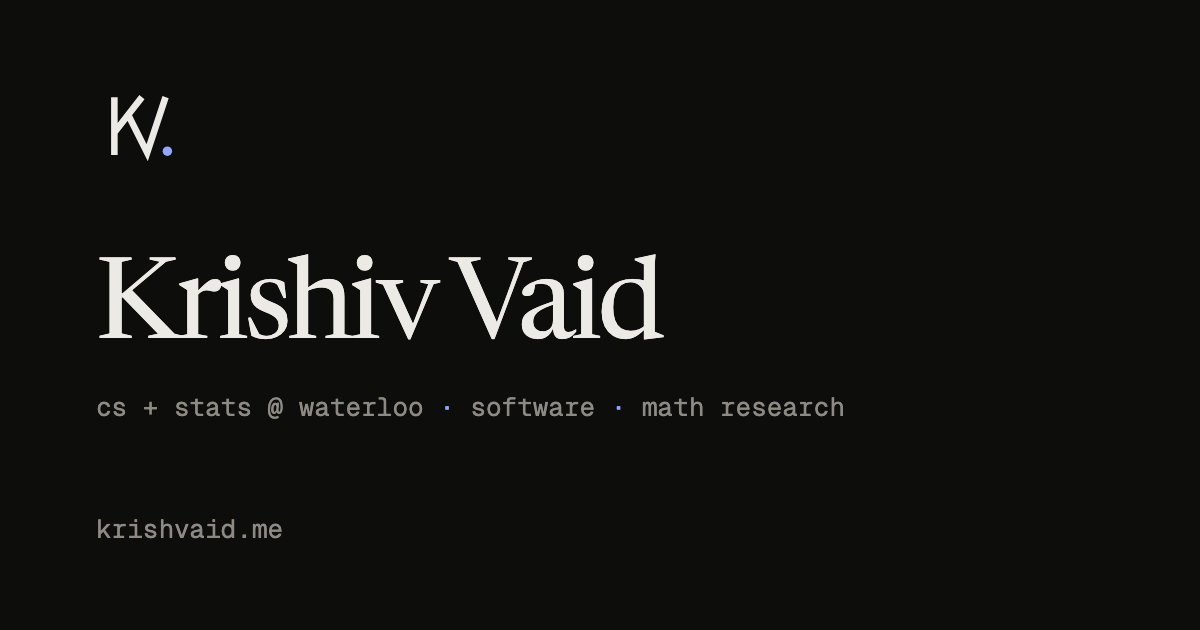
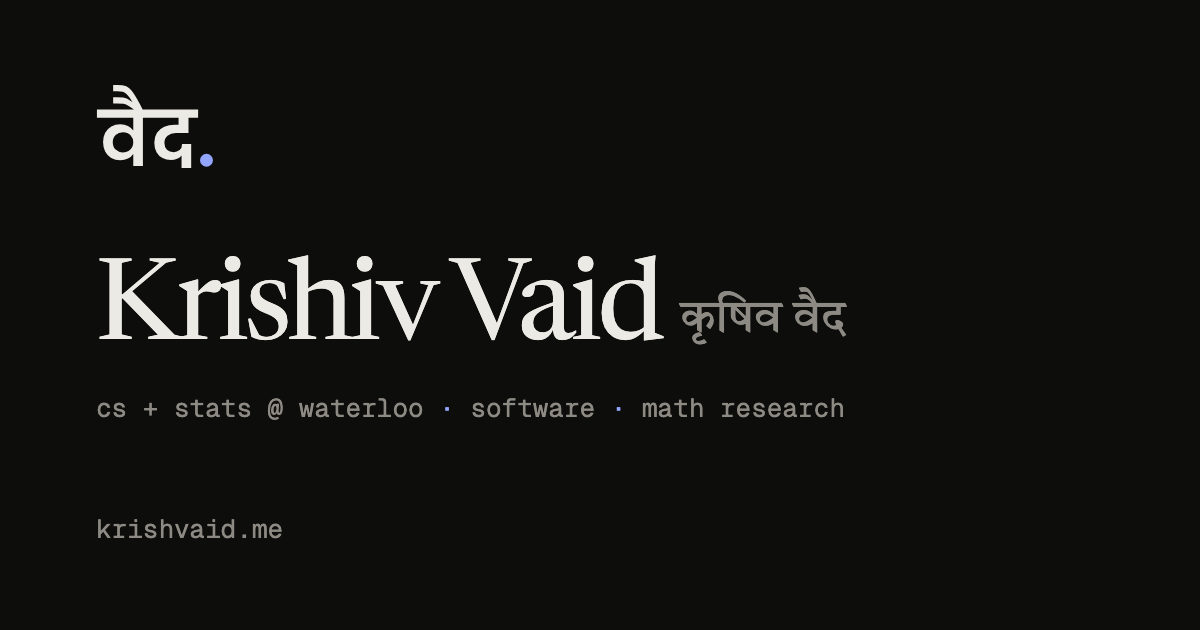
वैद mark, Devanagari name, interests section, faster counter
- New वैद. mark (Poppins outlines + accent dot) for favicon, touch icon, header, footer, 404 and social preview
- कृषिव वैद beside the name, in a subset Tiro Devanagari Hindi webfont
- New interests section: chess (2500 peak, playing since age 3), speedcubing (5.70s), other interests
- Orangutany and STEMinate logos; removed the expected graduation date
- Counter moves to a Cloudflare Worker + Durable Object; the request starts in <head> and the roll is faster

diff --git a/index.html b/index.html
@@ -27,9 +27,24 @@
       document.documentElement.dataset.theme = t;
     })();
   </script>
+  <!-- Count the visit before CSS and fonts load; main.js renders the result. -->
+  <script>
+    window.__visit = (function () {
+      var url = 'COUNTER_URL';
+      function go(retry) {
+        return fetch(url, { method: 'POST', credentials: 'omit', cache: 'no-store' })
+          .then(function (r) { if (!r.ok) throw new Error(r.status); return r.json(); })
+          .then(function (d) { return d.count; })
+          .catch(function (e) { if (retry) throw e; return new Promise(function (ok) { setTimeout(ok, 300); }).then(function () { return go(true); }); });
+      }
+      if (document.prerendering) return new Promise(function (ok) { document.addEventListener('prerenderingchange', function () { ok(go()); }, { once: true }); });
+      return go();
+    })();
+  </script>
   <link rel="preconnect" href="https://fonts.googleapis.com">
   <link rel="preconnect" href="https://fonts.gstatic.com" crossorigin>
   <link rel="stylesheet" href="https://fonts.googleapis.com/css2?family=Geist:wght@400;500;600&family=Geist+Mono:wght@400;500&family=Newsreader:ital,opsz,wght@0,6..72,400;0,6..72,500;1,6..72,400&display=swap">
+  <link rel="stylesheet" href="https://fonts.googleapis.com/css2?family=Tiro+Devanagari+Hindi&text=%E0%A4%95%E0%A5%83%E0%A4%B7%E0%A4%BF%E0%A4%B5%20%E0%A4%B5%E0%A5%88%E0%A4%A6&display=swap">
   <link rel="stylesheet" href="/css/styles.css">
   <script src="/js/main.js" defer></script>
 </head>
@@ -39,10 +54,7 @@
   <header class="top">
     <div class="wrap top-inner">
       <a class="brand" href="/" aria-label="Krishiv Vaid, home">
-        <svg class="mark" viewBox="0 0 32 32" aria-hidden="true">
-          <path class="mark-stroke" d="M7 5v22M7 18.5 17.5 5M12.2 11.6 19.5 26.2 26.5 5" pathLength="1"/>
-          <circle class="mark-dot" cx="27.2" cy="25.6" r="1.8"/>
-        </svg>
+        <svg class="mark mark-top" viewBox="-33 -1072 1542 1111" aria-hidden="true"><path class="mark-glyph" d="M690 -740V-632H580V0H454V-158Q428 -119 384.5 -97.0Q341 -75 285 -75Q217 -75 165.5 -105.5Q114 -136 86.5 -190.0Q59 -244 59 -314Q59 -381 87.0 -434.0Q115 -487 166.5 -516.5Q218 -546 285 -546Q342 -546 385.0 -524.0Q428 -502 454 -463V-632H-21V-740ZM454 -309V-310Q454 -364 418.5 -403.0Q383 -442 319 -442Q261 -442 223.5 -406.0Q186 -370 186 -311Q186 -251 223.5 -214.5Q261 -178 319 -178Q362 -178 392.5 -197.0Q423 -216 438.5 -246.0Q454 -276 454 -309ZM578 -737H468Q405 -780 378.0 -795.0Q351 -810 325.0 -814.0Q299 -818 241 -818H191V-899H238Q294 -899 321.0 -895.5Q348 -892 375.5 -878.5Q403 -865 444 -833Q406 -901 375.0 -932.0Q344 -963 316.5 -970.5Q289 -978 243 -978H191V-1060H241Q321 -1060 362.5 -1042.5Q404 -1025 450.5 -960.0Q497 -895 578 -737ZM861 -301Q861 -246 894.0 -213.5Q927 -181 982 -181Q1027 -181 1059.5 -209.0Q1092 -237 1092 -289H1211V27H1085V-138Q1063 -109 1027.0 -93.5Q991 -78 945 -78Q885 -78 836.0 -104.0Q787 -130 758.0 -181.0Q729 -232 729 -305Q729 -380 763.5 -433.5Q798 -487 858.5 -514.0Q919 -541 996 -541H1046V-632H649V-740H1302L1301 -632H1176V-430H1009Q943 -430 902.0 -396.0Q861 -362 861 -301Z"/><circle class="mark-dot" cx="1411" cy="-75" r="84"/></svg>
         <span class="brand-name">krishiv vaid</span>
       </a>
       <nav class="nav" aria-label="Sections">
@@ -50,6 +62,7 @@
         <a href="#research">research</a>
         <a href="#projects">projects</a>
         <a href="#about">about</a>
+        <a class="wide-only" href="#interests">interests</a>
       </nav>
       <button class="theme" type="button" id="theme-toggle" aria-label="Switch theme">
         <svg viewBox="0 0 24 24" aria-hidden="true">
@@ -64,7 +77,7 @@
   <main id="main" class="wrap">
     <section class="hero" aria-labelledby="hero-name">
       <p class="eyebrow mono"><span class="pulse" aria-hidden="true"></span>toronto, on <span class="sep">·</span> <time id="local-time">--:--</time></p>
-      <h1 id="hero-name">Krishiv Vaid</h1>
+      <h1 id="hero-name">Krishiv Vaid <span class="dev" lang="hi">कृषिव वैद</span></h1>
       <p class="lede">
         I study computer science &amp; statistics at
         <a class="org" href="https://uwaterloo.ca/"><img src="/public/logos/uwaterloo.ca.png" alt="" width="16" height="16">the University of Waterloo</a>.
@@ -106,7 +119,7 @@
         </li>
         <li class="entry">
           <div class="entry-head">
-            <span class="logo chip" aria-hidden="true">O</span>
+            <img class="logo" src="/public/logos/orangutany.png" alt="" width="28" height="28">
             <div class="entry-title">
               <h3>Orangutany</h3>
               <p class="role">Machine Learning Engineer</p>
@@ -144,7 +157,7 @@
         </li>
         <li class="entry">
           <div class="entry-head">
-            <span class="logo chip" aria-hidden="true">S</span>
+            <img class="logo round" src="/public/logos/steminate.png" alt="" width="28" height="28">
             <div class="entry-title">
               <h3>STEMinate</h3>
               <p class="role">Research Intern, Brain–Computer Interfaces</p>
@@ -196,7 +209,7 @@
       <dl class="facts">
         <div>
           <dt class="mono">education</dt>
-          <dd>B.Math at the <a href="https://uwaterloo.ca/">University of Waterloo</a>, intended double major in Computer Science and Statistics, expected 2029. President’s Scholarship of Distinction.</dd>
+          <dd>B.Math at the <a href="https://uwaterloo.ca/">University of Waterloo</a>, intended double major in Computer Science and Statistics. President’s Scholarship of Distinction.</dd>
         </div>
         <div>
           <dt class="mono">languages</dt>
@@ -215,26 +228,41 @@
           <dd>Git, GitHub Actions, Playwright, Storybook, pytest, ruff, ESLint</dd>
         </div>
       </dl>
+    </section>
 
-      <div class="offclock">
-        <p class="sub mono">off the clock</p>
-        <div class="stats">
-          <div class="stat"><span class="stat-n">2500</span><span class="stat-l mono">peak chess rating</span></div>
-          <div class="stat"><span class="stat-n">5.70<small>s</small></span><span class="stat-l mono">speedcubing pb</span></div>
+    <section id="interests" class="block reveal" aria-labelledby="interests-h">
+      <h2 id="interests-h" class="label mono"><span class="num">05</span>interests</h2>
+      <div class="stats">
+        <div class="stat">
+          <span class="stat-k mono">chess</span>
+          <span class="stat-n">2500</span>
+          <span class="stat-l">peak rating</span>
+          <span class="stat-note mono">playing since age 3</span>
         </div>
-        <p class="muted">Also poker, Dota 2, table tennis, hiking, and outdoor photography.</p>
+        <div class="stat">
+          <span class="stat-k mono">speedcubing</span>
+          <span class="stat-n">5.70<small>s</small></span>
+          <span class="stat-l">personal best solve</span>
+          <span class="stat-note mono">sub-6 seconds</span>
+        </div>
       </div>
+      <p class="sub mono">also into</p>
+      <ul class="pills">
+        <li>poker</li>
+        <li>dota 2</li>
+        <li>table tennis</li>
+        <li>hiking</li>
+        <li>outdoor photography</li>
+      </ul>
     </section>
   </main>
 
   <footer class="foot">
     <div class="wrap foot-inner">
       <div class="foot-row">
-        <a class="foot-brand" href="#main" aria-label="Back to top">
-          <svg class="mark" viewBox="0 0 32 32" aria-hidden="true"><path class="mark-stroke static" d="M7 5v22M7 18.5 17.5 5M12.2 11.6 19.5 26.2 26.5 5"/><circle class="mark-dot" cx="27.2" cy="25.6" r="1.8"/></svg>
-          <span>© <span id="year">2026</span> Krishiv Vaid</span>
-        </a>
+        <p class="foot-copy">© <span id="year">2026</span> Krishiv Vaid <a class="totop mono" href="#main">top ↑</a></p>
         <p class="visits mono" id="visits" aria-live="polite">
+          <svg class="mark mark-foot" viewBox="-33 -1072 1542 1111" aria-hidden="true"><path class="mark-glyph" d="M690 -740V-632H580V0H454V-158Q428 -119 384.5 -97.0Q341 -75 285 -75Q217 -75 165.5 -105.5Q114 -136 86.5 -190.0Q59 -244 59 -314Q59 -381 87.0 -434.0Q115 -487 166.5 -516.5Q218 -546 285 -546Q342 -546 385.0 -524.0Q428 -502 454 -463V-632H-21V-740ZM454 -309V-310Q454 -364 418.5 -403.0Q383 -442 319 -442Q261 -442 223.5 -406.0Q186 -370 186 -311Q186 -251 223.5 -214.5Q261 -178 319 -178Q362 -178 392.5 -197.0Q423 -216 438.5 -246.0Q454 -276 454 -309ZM578 -737H468Q405 -780 378.0 -795.0Q351 -810 325.0 -814.0Q299 -818 241 -818H191V-899H238Q294 -899 321.0 -895.5Q348 -892 375.5 -878.5Q403 -865 444 -833Q406 -901 375.0 -932.0Q344 -963 316.5 -970.5Q289 -978 243 -978H191V-1060H241Q321 -1060 362.5 -1042.5Q404 -1025 450.5 -960.0Q497 -895 578 -737ZM861 -301Q861 -246 894.0 -213.5Q927 -181 982 -181Q1027 -181 1059.5 -209.0Q1092 -237 1092 -289H1211V27H1085V-138Q1063 -109 1027.0 -93.5Q991 -78 945 -78Q885 -78 836.0 -104.0Q787 -130 758.0 -181.0Q729 -232 729 -305Q729 -380 763.5 -433.5Q798 -487 858.5 -514.0Q919 -541 996 -541H1046V-632H649V-740H1302L1301 -632H1176V-430H1009Q943 -430 902.0 -396.0Q861 -362 861 -301Z"/><circle class="mark-dot" cx="1411" cy="-75" r="84"/></svg>
           <span class="visits-l">visitor</span>
           <span class="odo" aria-hidden="true"></span>
           <span class="sr" id="visits-sr"></span>

diff --git a/css/styles.css b/css/styles.css
@@ -94,15 +94,17 @@ a:focus-visible, button:focus-visible { outline: 2px solid var(--accent); outlin
 
 .brand { display: inline-flex; align-items: center; gap: 10px; color: var(--fg); }
 .brand-name { font: 500 15px/1 var(--sans); letter-spacing: -0.01em; }
-.mark { width: 26px; height: 26px; overflow: visible; }
-.mark-stroke { fill: none; stroke: var(--fg); stroke-width: 2.5; stroke-linejoin: miter; stroke-miterlimit: 8; }
-.mark-dot { fill: var(--accent); }
-.brand .mark-stroke:not(.static) { stroke-dasharray: 1; stroke-dashoffset: 1; animation: draw 1.4s var(--ease) 0.15s forwards; }
-.brand .mark-dot { transform-origin: 27.2px 25.6px; transform: scale(0); animation: pop 0.5s var(--ease) 1.15s forwards; }
-.brand:hover .mark-dot { animation: pop 0.5s var(--ease) forwards, nudge 0.6s var(--ease); }
-@keyframes draw { to { stroke-dashoffset: 0; } }
+/* वैद mark: viewBox aspect is ~1.39:1 */
+.mark { width: 32px; height: 23px; overflow: visible; }
+.mark-glyph { fill: var(--fg); }
+.mark-dot { fill: var(--accent); transform-box: fill-box; transform-origin: center; }
+/* On load the letters wipe in left to right, like being written, then the dot lands. */
+.mark-top .mark-glyph { animation: write 1.1s var(--ease) 0.1s both; }
+.mark-top .mark-dot { animation: pop 0.5s var(--ease) 0.95s both; }
+.brand:hover .mark-dot { animation: nudge 0.6s var(--ease); }
+@keyframes write { from { clip-path: inset(-10% 100% -10% 0); } to { clip-path: inset(-10% 0 -10% 0); } }
 @keyframes pop { 0% { transform: scale(0); } 60% { transform: scale(1.35); } 100% { transform: scale(1); } }
-@keyframes nudge { 50% { transform: translate(1.5px, -1.5px) scale(1.15); } }
+@keyframes nudge { 50% { transform: translate(40px, -40px) scale(1.2); } }
 
 .nav { display: flex; gap: 22px; margin-left: auto; font: 400 14px/1 var(--sans); }
 .nav a { color: var(--muted); transition: color 0.2s; position: relative; padding: 6px 0; }
@@ -138,6 +140,11 @@ h1 {
   color: var(--fg);
   margin-bottom: 28px;
 }
+.dev {
+  font: 400 0.4em/1 "Tiro Devanagari Hindi", var(--serif);
+  letter-spacing: 0; color: var(--muted); margin-left: 0.3em;
+  white-space: nowrap; vertical-align: 0.14em;
+}
 .lede { font-size: 18px; line-height: 1.6; color: var(--fg-2); max-width: 60ch; text-wrap: pretty; }
 
 .org { display: inline-flex; align-items: baseline; gap: 6px; color: var(--fg); font-weight: 500;
@@ -168,6 +175,7 @@ h1 {
 .entries { display: grid; gap: 44px; }
 .entry-head { display: grid; grid-template-columns: 28px 1fr auto; gap: 14px; align-items: center; }
 .logo { width: 28px; height: 28px; border-radius: 7px; background: var(--bg-raised); }
+.logo.round { border-radius: 50%; }
 .chip { display: grid; place-items: center; font: 500 13px/1 var(--mono); color: var(--muted); border: 1px solid var(--line); background: var(--bg-raised); }
 h3 { font: 500 16px/1.3 var(--sans); color: var(--fg); letter-spacing: -0.01em; }
 .role { font-size: 14px; color: var(--muted); line-height: 1.4; margin-top: 2px; }
@@ -214,22 +222,29 @@ cite { font-style: italic; font-family: var(--serif); font-size: 1.08em; color: 
 .facts dt { font-size: 12px; color: var(--faint); }
 .facts dd { font-size: 15px; color: var(--fg-2); }
 
-.offclock { margin-top: 48px; }
-.sub { font-size: 12px; color: var(--faint); margin-bottom: 16px; }
-.stats { display: grid; grid-template-columns: repeat(2, 1fr); gap: 16px; margin-bottom: 18px; }
-.stat { padding: 18px 20px; border: 1px solid var(--line); border-radius: 14px; display: grid; gap: 6px; }
-.stat-n { font: 400 40px/1 var(--serif); letter-spacing: -0.03em; color: var(--fg); font-variant-numeric: tabular-nums; }
-.stat-n small { font-size: 0.5em; color: var(--muted); margin-left: 2px; }
-.stat-l { font-size: 12px; color: var(--muted); }
-.offclock .muted { font-size: 15px; }
+.sub { font-size: 12px; color: var(--faint); margin-bottom: 14px; }
+.stats { display: grid; grid-template-columns: repeat(2, 1fr); gap: 16px; margin-bottom: 40px; }
+.stat {
+  position: relative; padding: 20px 22px 18px; border: 1px solid var(--line); border-radius: 16px;
+  display: flex; flex-direction: column; gap: 4px; transition: border-color 0.25s;
+}
+.stat:hover { border-color: var(--faint); }
+.stat-k { font-size: 12px; color: var(--accent); margin-bottom: 14px; }
+.stat-n { font: 400 52px/1 var(--serif); letter-spacing: -0.035em; color: var(--fg); font-variant-numeric: tabular-nums; }
+.stat-n small { font-size: 0.45em; color: var(--muted); margin-left: 3px; letter-spacing: 0; }
+.stat-l { font-size: 14px; color: var(--fg-2); margin-top: 8px; }
+.stat-note { font-size: 12px; color: var(--muted); }
+.pills { display: flex; flex-wrap: wrap; gap: 8px; }
+.pills li { font-size: 14px; color: var(--fg-2); padding: 6px 14px; border: 1px solid var(--line); border-radius: 999px; }
 
 /* ---------- footer ---------- */
 .foot { border-top: 1px solid var(--line); margin-top: 24px; }
 .foot-inner { padding-top: 28px; padding-bottom: 40px; }
 .foot-row { display: flex; align-items: center; justify-content: space-between; gap: 16px; flex-wrap: wrap; }
-.foot-brand { display: inline-flex; align-items: center; gap: 10px; font-size: 14px; color: var(--muted); transition: color 0.2s; }
-.foot-brand:hover { color: var(--fg); }
-.foot-brand .mark { width: 20px; height: 20px; }
+.foot-copy { font-size: 14px; color: var(--muted); }
+.totop { margin-left: 14px; font-size: 12px; color: var(--faint) !important; }
+.totop:hover { color: var(--fg) !important; }
+.mark-foot { width: 25px; height: 18px; }
 .colophon { margin-top: 18px; font-size: 11px; color: var(--faint); }
 
 .visits { display: inline-flex; align-items: center; gap: 10px; font-size: 12px; color: var(--muted); min-height: 30px; }
@@ -237,7 +252,7 @@ cite { font-style: italic; font-family: var(--serif); font-size: 1.08em; color: 
 .odo { display: inline-flex; padding: 5px 8px; border: 1px solid var(--line); border-radius: 8px; background: var(--bg-raised); color: var(--fg); font-size: 13px; line-height: 1; font-variant-numeric: tabular-nums; }
 .odo .hash { color: var(--faint); margin-right: 2px; }
 .odo .d { display: inline-block; height: 1em; overflow: hidden; }
-.odo .d > span { display: flex; flex-direction: column; transition: transform 1.6s var(--ease); }
+.odo .d > span { display: flex; flex-direction: column; transition: transform 0.75s var(--ease); }
 .odo .d > span > span { height: 1em; line-height: 1; }
 .odo .comma { color: var(--faint); }
 .odo.loading { color: var(--faint); }
@@ -258,8 +273,6 @@ cite { font-style: italic; font-family: var(--serif); font-size: 1.08em; color: 
   *, *::before, *::after { animation-duration: 0.01ms !important; animation-iteration-count: 1 !important; transition-duration: 0.01ms !important; }
   html { scroll-behavior: auto; }
   .reveal.pending:not(.in) { opacity: 1; transform: none; }
-  .brand .mark-stroke:not(.static) { stroke-dashoffset: 0; }
-  .brand .mark-dot { transform: none; }
 }
 
 /* ---------- small screens ---------- */
@@ -276,5 +289,8 @@ cite { font-style: italic; font-family: var(--serif); font-size: 1.08em; color: 
   .has-viz { grid-template-columns: 1fr; }
   .viz { max-width: 200px; }
   .facts > div { grid-template-columns: 1fr; gap: 2px; }
-  .stat-n { font-size: 34px; }
+  .stats { grid-template-columns: 1fr; }
+  .stat-n { font-size: 44px; }
 }
+
+@media (max-width: 600px) { .wide-only { display: none; } }

diff --git a/js/main.js b/js/main.js
@@ -65,34 +65,10 @@
   setInterval(tick, 15000);
 
   /* ---------- visitor counter ----------
-     Every page load (including a reload) adds one visit. Off the real domain we
-     count into a separate key so local testing doesn't inflate the number. */
-  const COUNTER_BASE = 'https://abacus.jasoncameron.dev';
-  const COUNTER_NS = 'krishvaid.me';
-  const isProd = /(^|\.)krishvaid\.me$/.test(location.hostname);
-  const COUNTER_KEY = isProd ? 'visits' : 'visits-dev';
-
+     The request was already sent from <head> (window.__visit); this only renders it. */
   const visits = document.getElementById('visits');
   const odo = visits.querySelector('.odo');
   const visitsSr = document.getElementById('visits-sr');
-
-  const wait = ms => new Promise(r => setTimeout(r, ms));
-  async function readCount(path) {
-    const res = await fetch(`${COUNTER_BASE}/${path}/${COUNTER_NS}/${COUNTER_KEY}`, { cache: 'no-store', credentials: 'omit' });
-    const data = await res.json();
-    if (!Number.isSafeInteger(data.value) || data.value < 0) throw new Error('bad count');
-    return data.value;
-  }
-  async function countVisit() {
-    // The hit endpoint occasionally errors after it has already incremented,
-    // so retry with read-only calls instead of hitting twice.
-    try { return await readCount('hit'); } catch (e) {}
-    for (let i = 0; i < 4; i++) {
-      await wait(400 * 2 ** i);
-      try { return await readCount('get'); } catch (e) {}
-    }
-    throw new Error('counter unavailable');
-  }
 
   function renderOdometer(n) {
     const text = n.toLocaleString('en-US');
@@ -112,22 +88,17 @@
     visitsSr.textContent = `You are visitor number ${text}.`;
     requestAnimationFrame(() => requestAnimationFrame(() => {
       reels.forEach(([reel, digit], i) => {
-        reel.style.transitionDelay = `${i * 70}ms`;
+        reel.style.transitionDelay = `${i * 40}ms`;
         reel.style.transform = `translateY(-${digit}em)`;
       });
     }));
   }
 
-  function startCounter() {
-    odo.classList.add('loading');
-    odo.textContent = '#···';
-    countVisit().then(renderOdometer).catch(() => {
-      visits.classList.add('hidden');
-    });
-  }
-  // A prerendered page hasn't been visited yet; count it once it's shown.
-  if (document.prerendering) document.addEventListener('prerenderingchange', startCounter, { once: true });
-  else startCounter();
+  odo.classList.add('loading');
+  odo.textContent = '#···';
+  Promise.resolve(window.__visit)
+    .then(n => { if (!Number.isSafeInteger(n) || n < 1) throw new Error('bad count'); renderOdometer(n); })
+    .catch(() => visits.classList.add('hidden'));
 
   /* ---------- double pendulum ---------- */
   const canvas = document.getElementById('pendulum');

diff --git a/404.html b/404.html
@@ -13,13 +13,13 @@
   <link rel="stylesheet" href="/css/styles.css">
   <style>
     .lost { min-height: 100vh; display: grid; place-content: center; gap: 20px; padding: 24px; }
-    .lost .mark { width: 40px; height: 40px; }
+    .lost .mark { width: 56px; height: 40px; }
     .lost h1 { margin: 0; }
   </style>
 </head>
 <body>
   <main class="lost wrap">
-    <a href="/" aria-label="Home"><svg class="mark" viewBox="0 0 32 32" aria-hidden="true"><path class="mark-stroke" d="M7 5v22M7 18.5 17.5 5M12.2 11.6 19.5 26.2 26.5 5"/><circle class="mark-dot" cx="27.2" cy="25.6" r="1.8"/></svg></a>
+    <a href="/" aria-label="Home"><svg class="mark mark-404" viewBox="-33 -1072 1542 1111" aria-hidden="true"><path class="mark-glyph" d="M690 -740V-632H580V0H454V-158Q428 -119 384.5 -97.0Q341 -75 285 -75Q217 -75 165.5 -105.5Q114 -136 86.5 -190.0Q59 -244 59 -314Q59 -381 87.0 -434.0Q115 -487 166.5 -516.5Q218 -546 285 -546Q342 -546 385.0 -524.0Q428 -502 454 -463V-632H-21V-740ZM454 -309V-310Q454 -364 418.5 -403.0Q383 -442 319 -442Q261 -442 223.5 -406.0Q186 -370 186 -311Q186 -251 223.5 -214.5Q261 -178 319 -178Q362 -178 392.5 -197.0Q423 -216 438.5 -246.0Q454 -276 454 -309ZM578 -737H468Q405 -780 378.0 -795.0Q351 -810 325.0 -814.0Q299 -818 241 -818H191V-899H238Q294 -899 321.0 -895.5Q348 -892 375.5 -878.5Q403 -865 444 -833Q406 -901 375.0 -932.0Q344 -963 316.5 -970.5Q289 -978 243 -978H191V-1060H241Q321 -1060 362.5 -1042.5Q404 -1025 450.5 -960.0Q497 -895 578 -737ZM861 -301Q861 -246 894.0 -213.5Q927 -181 982 -181Q1027 -181 1059.5 -209.0Q1092 -237 1092 -289H1211V27H1085V-138Q1063 -109 1027.0 -93.5Q991 -78 945 -78Q885 -78 836.0 -104.0Q787 -130 758.0 -181.0Q729 -232 729 -305Q729 -380 763.5 -433.5Q798 -487 858.5 -514.0Q919 -541 996 -541H1046V-632H649V-740H1302L1301 -632H1176V-430H1009Q943 -430 902.0 -396.0Q861 -362 861 -301Z"/><circle class="mark-dot" cx="1411" cy="-75" r="84"/></svg></a>
     <p class="mono muted" style="font-size:13px">error 404</p>
     <h1>Nothing here.</h1>
     <p class="mono" style="font-size:13px"><a href="/" style="border-bottom:1px solid var(--line)">← back to krishvaid.me</a></p>

diff --git a/README.md b/README.md
@@ -14,8 +14,9 @@ python3 -m http.server 8000   # then open http://localhost:8000
 | --- | --- |
 | `index.html` | All page content: hero, work, research, projects, about |
 | `css/styles.css` | Design tokens (light and dark) at the top, then components |
-| `js/main.js` | Theme toggle, scroll reveal, Toronto clock, visitor counter, double-pendulum canvas |
-| `public/favicon.svg` | The **KV.** mark. The K's leg runs into the V, with an accent dot |
+| `js/main.js` | Theme toggle, scroll reveal, Toronto clock, visitor-counter display, double-pendulum canvas |
+| `public/favicon.svg` | The **वैद.** mark: वैद set in Poppins SemiBold and converted to an SVG path, plus the blue accent dot |
+| `counter/` | Cloudflare Worker behind the visitor counter |
 | `public/logos/` | Small org logos used inline |
 | `404.html` | Not-found page |
 | `experience.html`, `projects.html`, … | Redirects so old URLs still land on the right section |
@@ -28,12 +29,17 @@ The theme follows the system setting until the visitor clicks the toggle. After 
 
 ## Visitor counter
 
-Every page load, including a reload, adds one visit. The counter uses the free [Abacus](https://abacus.jasoncameron.dev) API, with no account or server to run:
+Every page load, including a reload, adds one visit. The counter runs on a Cloudflare Worker (`counter/`), with a single Durable Object holding the count, so increments are atomic and a request takes about 50 ms.
 
-- production key: `krishvaid.me/visits` (used only when served from krishvaid.me)
-- any other host (for example localhost) counts into `krishvaid.me/visits-dev`, so testing doesn't inflate the real number
+- The request is sent from an inline script in `<head>` (`window.__visit`), so it doesn't wait for CSS, fonts or `main.js`. `main.js` only renders the result.
+- Only krishvaid.me can bump the real count. Pages served from localhost count into a separate `dev` counter, and any other origin gets a 403.
+- `START_COUNT` in `counter/wrangler.toml` was the count carried over when the counter launched. It's used only once, while storage is empty.
 
-Abacus sometimes returns an error even though it already counted the hit. In that case the script retries with read-only `get` calls, never with a second `hit`. If the counter can't be reached at all, it hides itself.
+Deploy changes to the worker with:
+
+```sh
+cd counter && npx wrangler deploy
+```
 
 ## Deploy
 
